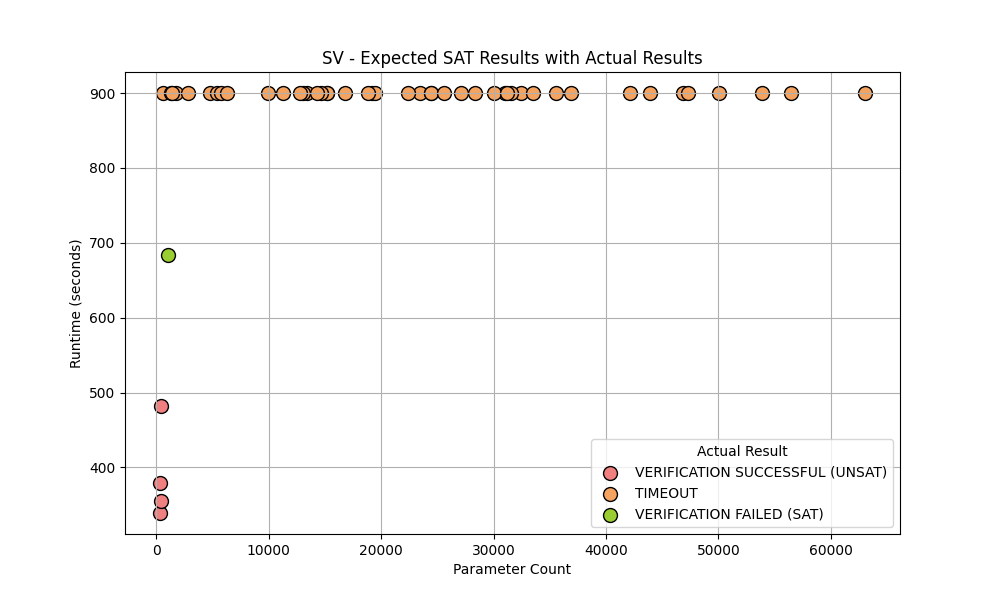
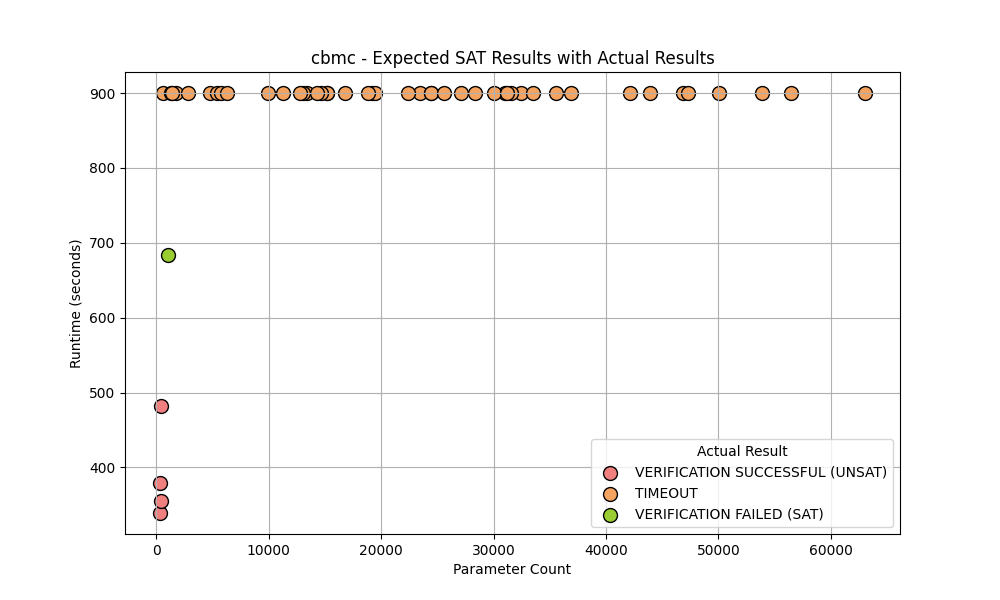
updated graphs

Changed region(s): [[0.31, 0.06, 0.713, 0.12]]

diff --git a/helpers/generate_graphs.py b/helpers/generate_graphs.py
@@ -158,7 +158,7 @@ def plot_expected_results(data_dict, output_dir, verifier_type, expected_result)
                 edgecolors='black',
                 s=100
             )
-        plt.title(f'{verifier_type.upper()} - Expected {expected_result} Results with Actual Results')
+        plt.title(f'{get_verifier_name(file_name)} - Expected {expected_result} Results with Actual Results')
         plt.xlabel('Parameter Count')
         plt.ylabel('Runtime (seconds)')
         plt.legend(title='Actual Result')
@@ -292,7 +292,7 @@ def plot_combined_results(output_dir):
             plt.plot(x_smooth, y_smooth, '-', color=colors[color_idx], label=verifier_label)
             plt.plot(x, y, 'o', color=colors[color_idx])  # Original points
         color_idx += 1
-    plt.title('Combined Cumulative Runtime Across All Verifiers (smt, sv, vnn)')
+    plt.title('Cumulative Runtime Across All Verifiers (SV, SMT, VNN)')
     plt.xlabel('Instance Index (Sorted by Parameter Count per Verifier)')
     plt.ylabel('Cumulative Runtime (seconds)')
     plt.legend(title='Verifier', bbox_to_anchor=(1.05, 1), loc='upper left')
@@ -343,7 +343,7 @@ def generate_bar_graph(data_dict, output_dir, verifier_type=None):
         plt.title(f'{verifier_type.upper()} Verifiers - Number of Instances per Actual Result')
         output_filename = f"{verifier_type}_bar_graph.png"
     else:
-        plt.title('Combined Verifiers - Number of Instances per Actual Result')
+        plt.title('Number of Instances per Actual Result')
         output_filename = "combined_bar_graph.png"
     plt.xticks(x, verifiers, rotation=45, ha='right')
     plt.legend()
